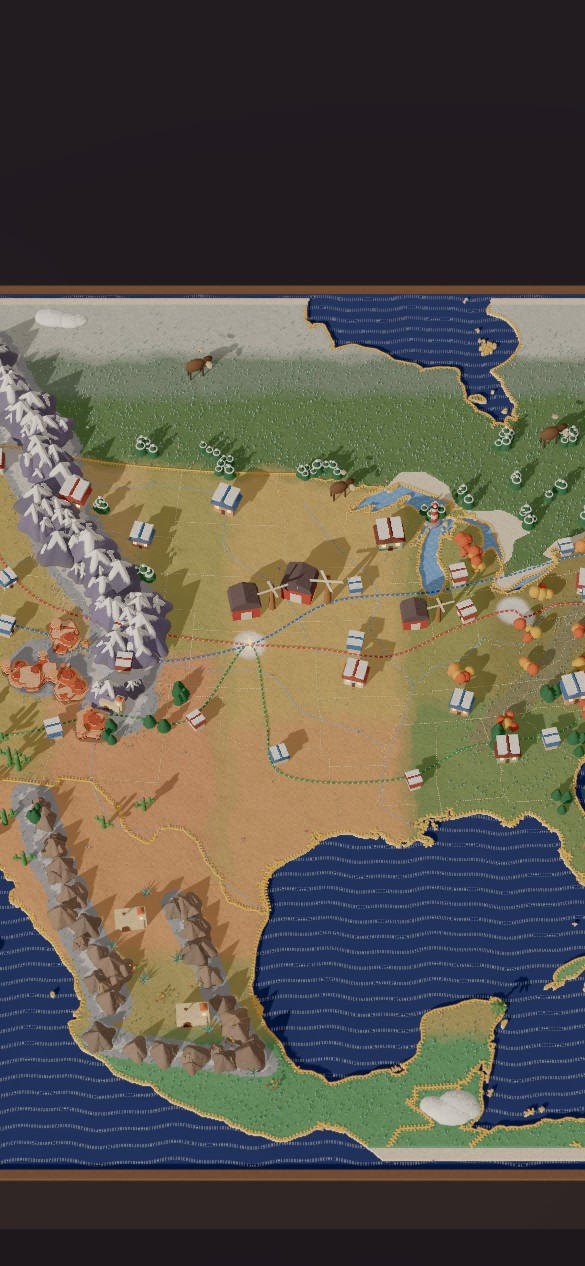
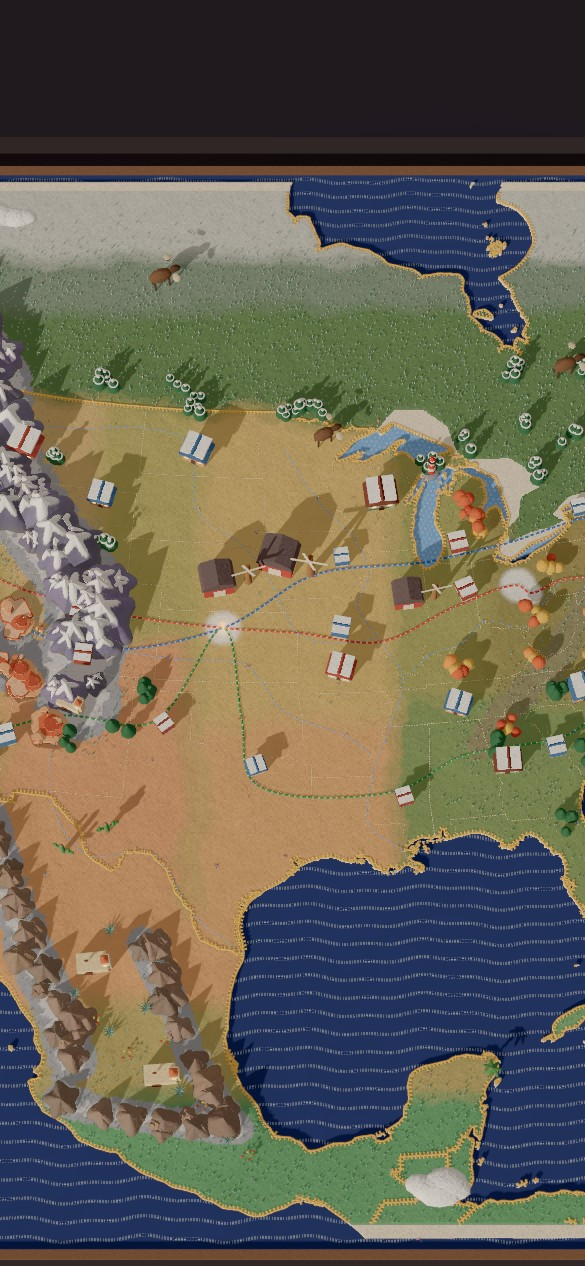
UX direction concepts: final screens (labels kept on screen and apart; phone landings fill the frame)
Claude-Session: https://claude.ai/code/session_017tNAHcpaXsDX6pdqSWLTrX

diff --git a/docs/concepts/ux-directions/concepts.html b/docs/concepts/ux-directions/concepts.html
@@ -45,6 +45,7 @@
   .lbl.mh { background: rgba(23, 20, 42, 0.82); color: var(--ink); padding: 5px 10px 5px 9px; font-size: 12px; border: 1px solid rgba(246, 236, 218, 0.25); }
   .lbl.mh::before { content: ""; display: inline-block; width: 7px; height: 7px; border-radius: 50%; background: var(--holly); margin-right: 6px; vertical-align: 1px; }
   .lbl.mh::after { border-top-color: rgba(23, 20, 42, 0.82); }
+  .lbl.below { translate: -50% 8px; } .lbl.mh.below::after { bottom: auto; top: -6px; border: 6px solid transparent; border-top: 0; border-bottom-color: rgba(23, 20, 42, 0.82); }
   .lbl small { font-weight: 400; color: var(--muted); margin-left: 4px; }
   .note { position: absolute; font-size: 11.5px; color: var(--muted); text-shadow: 0 1px 8px rgba(0, 0, 0, 0.9); }
 </style>
@@ -68,8 +69,18 @@ function map(name, x = 0, y = 0, { labels = true } = {}) {
   add(`<img class="map" src="renders/${name}.jpg" style="left:${x}px;top:${y}px;width:${a.w}px;height:${a.h}px" alt="">`);
   if (!labels) return a;
   const inside = (p) => p && p.x > 20 && p.x < a.w - 20 && p.y > 40 && p.y < a.h - 10;
-  if (inside(a.toytown)) add(`<div class="lbl tt" style="left:${x + a.toytown.x}px;top:${y + a.toytown.y}px">★ Toy Town</div>`);
-  if (inside(a.maple)) add(`<div class="lbl mh" style="left:${x + a.maple.x}px;top:${y + a.maple.y}px">Maple Hollow<small>Chapter 1</small></div>`);
+  // labels are measured: kept inside the map's width, and when Maple Hollow's would touch Toy Town's it hangs
+  // below its point instead, so the two never collide
+  const tt = inside(a.toytown) ? add(`<div class="lbl tt" style="left:${x + a.toytown.x}px;top:${y + a.toytown.y}px">★ Toy Town</div>`) : null;
+  const mh = inside(a.maple) ? add(`<div class="lbl mh" style="left:${x + a.maple.x}px;top:${y + a.maple.y}px">Maple Hollow<small>Chapter 1</small></div>`) : null;
+  for (const el of [tt, mh].filter(Boolean)) {
+    const r = el.getBoundingClientRect(), over = r.right - (x + a.w - 6), under = (x + 6) - r.left;
+    if (over > 0) el.style.marginLeft = `${-over}px`; else if (under > 0) el.style.marginLeft = `${under}px`;
+  }
+  if (tt && mh) {
+    const p = tt.getBoundingClientRect(), q = mh.getBoundingClientRect();
+    if (!(q.right < p.left || q.left > p.right || q.bottom < p.top || q.top > p.bottom)) mh.classList.add('below');
+  }
   return a;
 }
 const searchRow = (w = '100%', fh = 44) => `<div style="display:flex;gap:8px;width:${w}"><div class="field" style="flex:1;height:${fh}px">12345</div><span class="pbtn" style="height:${fh}px;padding:0 16px">Search</span></div>`;
@@ -104,7 +115,7 @@ const screens = {
     add(`<div class="abs" style="left:50%;translate:-50% 0;bottom:18px;display:flex;gap:10px;align-items:center"><span class="sbtn">Visit Maple Hollow</span><span class="sbtn">Back to the whole country</span></div>`);
   },
   A_phone_landing() {
-    map('A_phone_landing');
+    map('A_phone_landing', 0, -56);   // lifted under the header so the board's far edge stays out of view
     add(`<div class="abs" style="inset:0 0 auto;height:52px;display:flex;align-items:center;gap:10px;padding:0 16px;background:linear-gradient(rgba(23,20,42,.92),rgba(23,20,42,.4))">
       <span class="brand" style="font-size:18px">Railroad of Hope</span><span class="proto">Prototype</span>
       <span class="sbtn" style="margin-left:auto;width:36px;height:36px;padding:0;font:600 16px var(--display)" aria-label="About this map">i</span></div>`);
